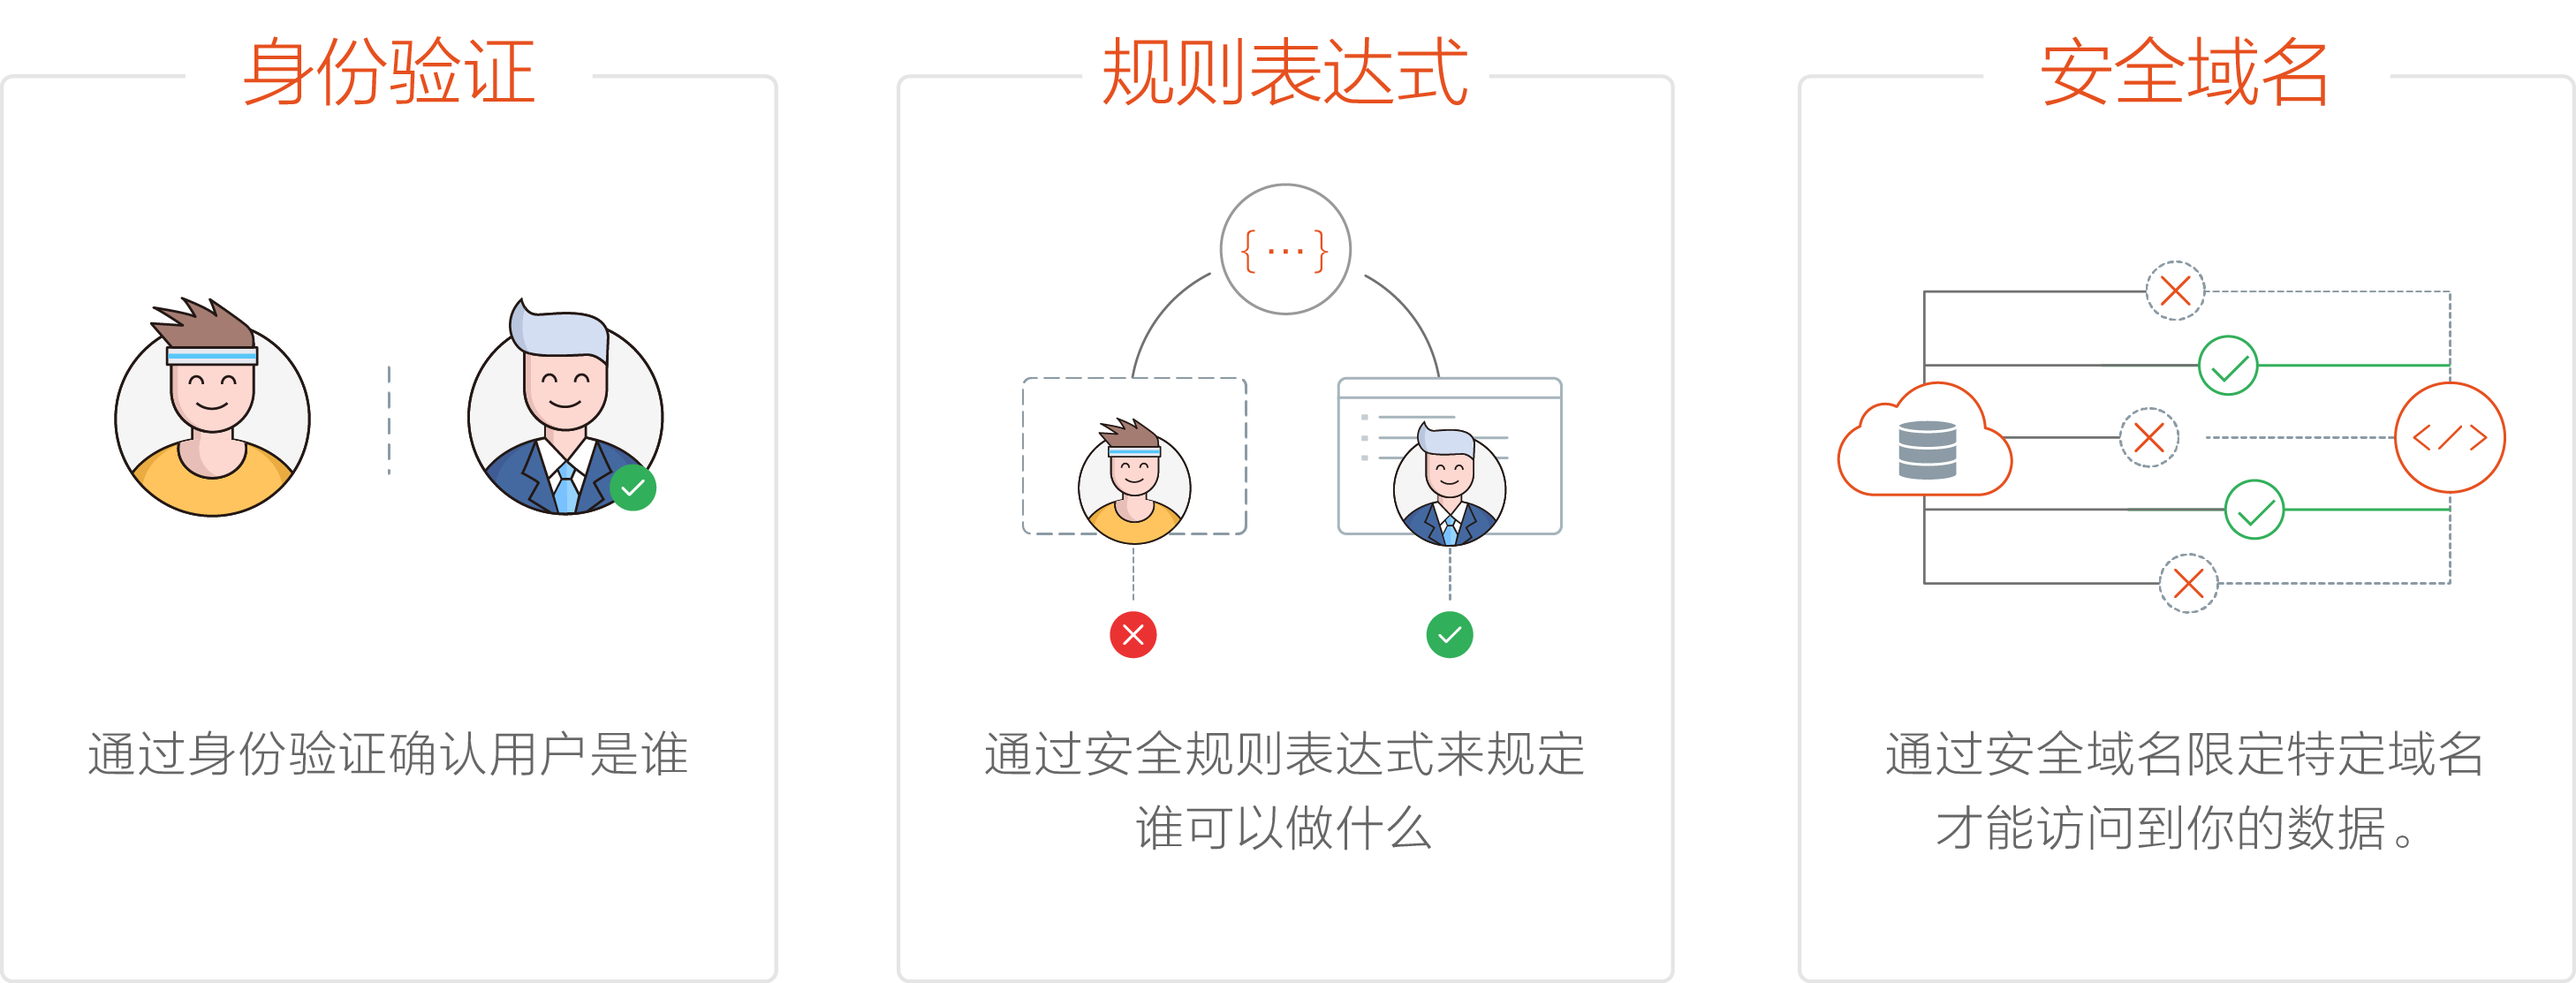
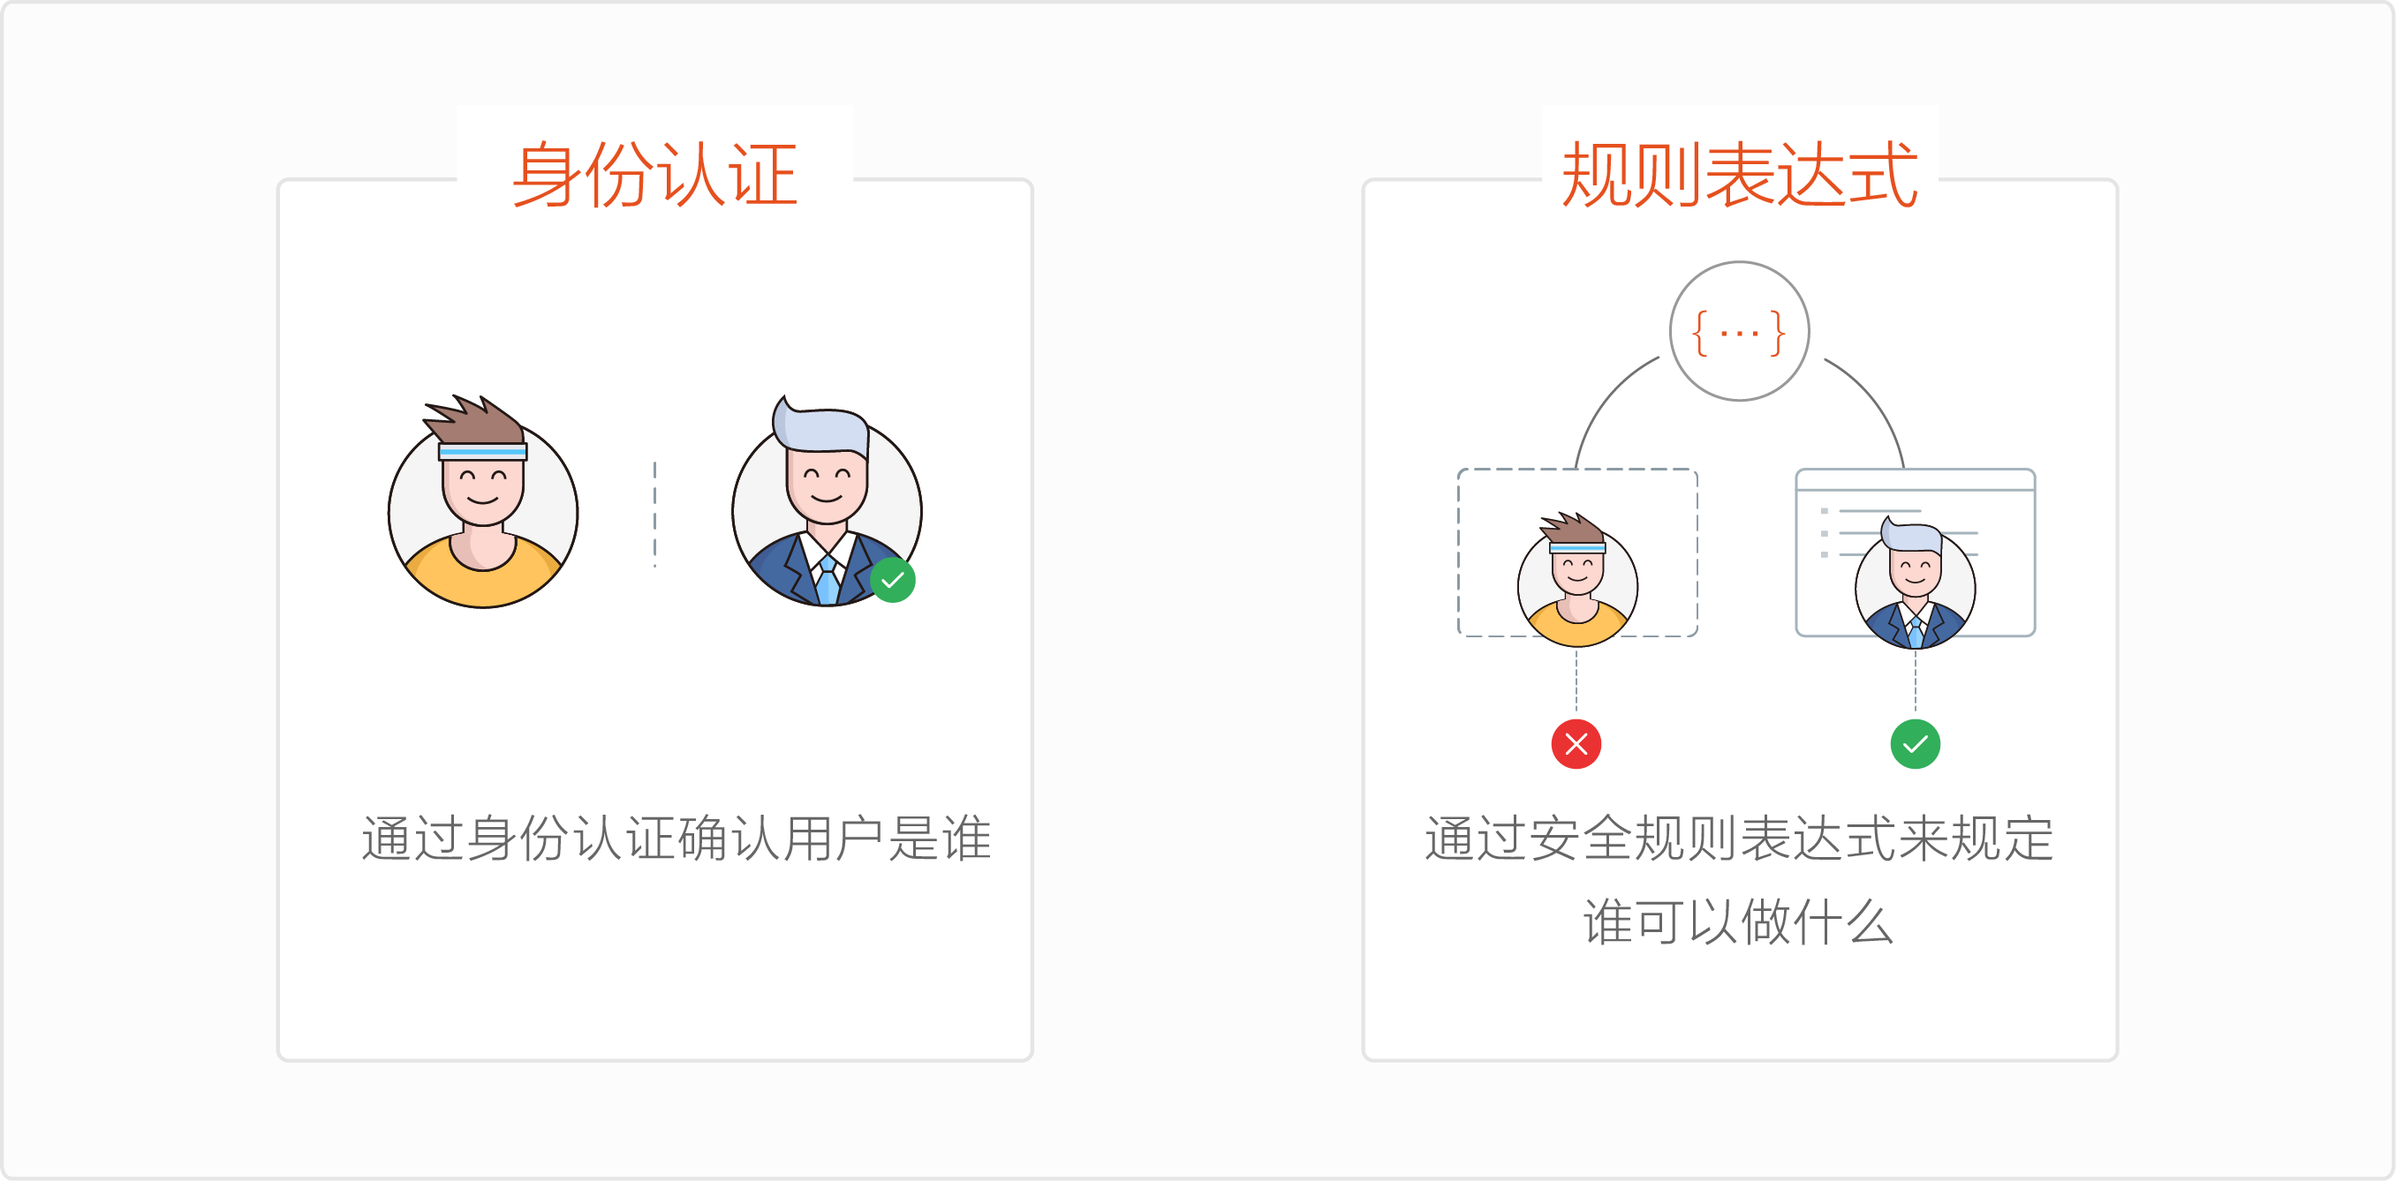
changepics

diff --git a/source/overview/sync.md b/source/overview/sync.md
@@ -1,7 +1,7 @@
 title: 实时数据同步
 ---
 <h2 id='简介' class="article-heading top-heading">简介</h2>
-**实时数据同步是野狗的核心。** 用户在设备上对数据的任何修改，云端会自动推送到所有连接设备，时差以毫秒计算。
+**实时数据同步是野狗的核心实时通信引擎。** 用户在设备上对数据的任何修改，云端会自动推送到所有连接设备，时差以毫秒计算。
 
 ![](/images/syncdevices.png)
 
@@ -19,7 +19,7 @@ title: 实时数据同步
 
 
 ## 实时数据同步能做什么 
-实时数据同步主要应用在：基础实时通信、实时数据分发、数据持久化存储。以下介绍实时数据同步常见的应用场景。
+实时数据同步主要应用在：基础实时通信、实时数据分发、数据持久化存储三个方向。以下介绍实时数据同步常见的应用场景。
 
 ### 实时物联
 - 支持智能家居设备远程操作及状态同步、消息推送，地理位置实时更新，大量设备集中控制，实时状态统计，设备故障等实时推送场景。
@@ -53,15 +53,15 @@ title: 实时数据同步
 让开发者避免长期购买带宽造成资源浪费，使用野狗来完成动态数据的海量分发。
 
 
-## 实时数据同步的安全
+## 实时数据同步的数据访问权限
 
-野狗提供身份认证、规则表达式和安全域名三种方式，保证云端数据的安全。
+野狗提供身份认证、规则表达式两种方式，控制不同用户对数据的访问权限。
 
 ![](/images/protect.png)
 
 ### 身份认证：
 
-用户的登录信息中包含了唯一 ID，称为 Wilddog ID，认证身份后，其 Wilddog ID 永远保持不变。 Wilddog ID 控制不同用户对后端系统的访问权限。
+用户的登录信息中包含了唯一 ID，称为 Wilddog ID。并且用户认证身份后，其 Wilddog ID 永远保持不变。 Wilddog ID 控制不同用户对数据的访问权限。
 
 更多具体细节，请参考[身份认证](/overview/auth.html) 的文档。
 
@@ -69,13 +69,11 @@ title: 实时数据同步
 #### 规则表达式：
 
 
-我们提供了一种类 JavaScript 语法的表达式，用于定义数据的读写权限和校验规则，可以控制用户有权限访问哪些数据，确保用户数据安全。
+我们提供了一种类 JavaScript 语法的表达式，用于定义数据的读写权限和校验规则，可以控制用户有权限访问哪些数据。
  
 更多具体细节，请参考 [规则表达式](/guide/sync/rules/introduce.html) 的文档。
   
-#### 安全域名：
 
-用户可以为应用配置一些域名白名单。以此对请求来源做限制，一定程度防御住 Web 的服务器资源盗取。
 
 
 

diff --git a/source/overview/index.md b/source/overview/index.md
@@ -2,13 +2,13 @@ title:  简介
 ---
 
 <h2 id='野狗是什么' class="article-heading top-heading">野狗是什么</h2>
-野狗是国内领先的实时后端云，为应用和开发者提供低成本的实时消息、语音、视频通信能力，以及安全的身份认证服务。它具有成本低、集成快和可按需扩容的特点。
+野狗是国内领先的实时后端云。野狗为应用和开发者提供低成本的实时消息、语音、视频通信能力，以及安全的身份认证服务。它具有成本低、集成快和可按需扩容的特点。
 
 
 ## 野狗的产品
 目前野狗的产品有 [实时数据同步](/overview/sync.html) 和 [身份认证](/overview/auth.html)。
 
-实时数据同步帮助用户快速实现基础通信、实时数据分发以及实时数据持久化。
+实时数据同步是野狗的核心实时通信引擎。它帮助用户快速实现基础通信、实时数据分发以及实时数据持久化。
 
 ![](/images/introduction.png)
 
